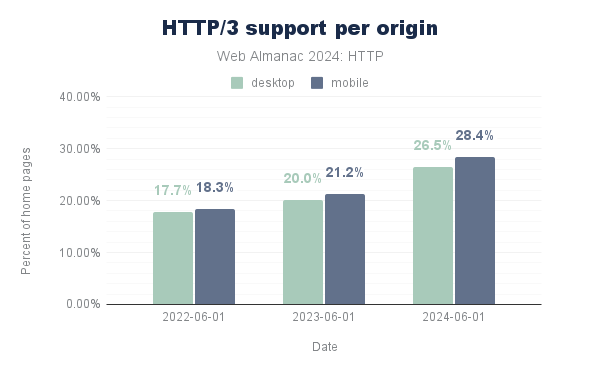
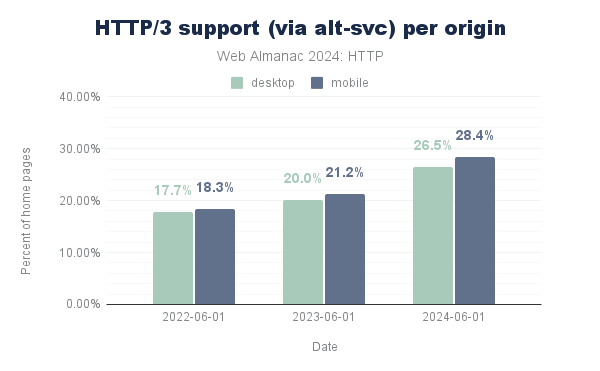
First part of the HTTP 2024 chapter with images

Changed region(s): [[0.15, 0.0296, 0.84, 0.1186]]

diff --git a/src/tools/test/test_status_codes.js b/src/tools/test/test_status_codes.js
@@ -4,7 +4,7 @@ const convert = require('xml-js');
 
 const { get_yearly_configs } = require('../generate/shared');
 
-const default_year = 2022;
+const default_year = 2024;
 const default_language = 'en';
 const base_url = "http://127.0.0.1:8080";
 

diff --git a/src/server/config.py b/src/server/config.py
@@ -8,7 +8,7 @@ TEMPLATES_DIR = ROOT_DIR + "/templates"
 STATIC_DIR = ROOT_DIR + "/static"
 
 SUPPORTED_YEARS = []
-DEFAULT_YEAR = "2022"
+DEFAULT_YEAR = "2024"
 
 DEFAULT_AVATAR_FOLDER_PATH = "/static/images/avatars/"
 AVATAR_SIZE = 200

diff --git a/src/content/en/2024/http.md b/src/content/en/2024/http.md
@@ -22,53 +22,268 @@ featured_stat_label_3: TODO
 
 HTTP remains the cornerstone of the Web ecosystem, providing the foundation for exchanging data and enabling various types of internet services. It is an actively developed protocol, with the latest version [HTTP/3](https://datatracker.ietf.org/doc/html/rfc9114) being standardized a little over two years ago, and new options to enable it being introduced recently, such as the new [DNS HTTPS records](https://developer.mozilla.org/en-US/docs/Glossary/HTTPS_RR). At the same time, the Web platform has been exposing more and more higher-level features that Web developers can use to influence when and how resources are requested and downloaded over HTTP. This includes options like [Resource Hints](https://web.dev/learn/performance/resource-hints) (for example preload and preconnect), [103 Early Hints](https://developer.mozilla.org/en-US/docs/Web/HTTP/Status/103) and the [FetchPriority API](https://web.dev/articles/fetch-priority). 
 
-In this chapter, we will first look at the current state of HTTP/3 adoption (triggered by either alt-svc or DNS HTTPS record usage), how it compares to HTTP/2 usage, and how both have evolved since 2022. We then consider TODO.
+In this chapter, we will first look at the current state of HTTP/1.1, HTTP/2 and HTTP/3 adoption, and how their usage has evolved over time. We then consider the new Web platform features, to get an idea of how well they're supported and how people are using them in practice. 
 
-## HTTP/3 adoption
+## HTTP version adoption
+
+Conceptually, getting an idea of how widespread the adoption of HTTP/2 and HTTP/3 is should be easy: just report how often each of the protocol versions was used to load the observed websites' home pages. This is exactly what we've done in the graph below:
+
+{{ figure_markup(
+  image="http-version-per-website.png",
+  caption="Adoption of HTTP versions as a percentage of website home pages.",
+  description="TODO",
+  chart_url="https://docs.google.com/spreadsheets/d/e/2PACX-1vQhHn7aWiJiMSVu3o872Lxr45NNZkG7jKa_MyL7aPwdga8gul19txh36PL2Ep4GRcaSYzpvLc-oc_xg/pubchart?oid=543150104&format=interactive",
+  sheets_gid="1647649629",
+  sql_file="h2_adoption_pages_reqs.sql"
+) }}
+
+While these results might look sensible at first glance, they are actually quite misleading. Indeed, as we'll see later, in reality HTTP/3 support across the Web is closer to 30% instead of the 7-9% reported above. This discrepancy is due to the fact that HTTP/3 has to be discovered before being used, while [the methodology used](https://almanac.httparchive.org/en/2024/methodology) for the Web almanac doesn't really lend itself well to the main discovery option ("alt-svc"). This causes a lot of HTTP/3-capable sites still being loaded over HTTP/2 and thus HTTP/3 is getting underreported. We will discuss this in more detail below, but for now we will group HTTP/2 and HTTP/3 together into a single label of "HTTP/2+" to at least compare them to HTTP/1.1.  
+
+As such, we see that only 21-22% of home pages is loaded over HTTP/1.1 in 2024, a marked difference from 2022 [where it was still  34%](https://almanac.httparchive.org/en/2022/http#http2-adoption) and especially 2020 where there was [basically a 50/50 split](https://almanac.httparchive.org/en/2020/http#http2-adoption) between H/1.1 and H2+. 
+
+Now, this is just looking at how the main document (the HTML) of the page is loaded. Another way of looking at HTTP adoption is by looking at the version used for **all** requests (including subresources and third-parties), which skews the results even more towards HTTP/2+:
+
+{{ figure_markup(
+  image="http2-per-request.png",
+  caption="Adoption of HTTP/2 and above as a percentage of requests.",
+  description="TODO",
+  chart_url="https://docs.google.com/spreadsheets/d/e/2PACX-1vQhHn7aWiJiMSVu3o872Lxr45NNZkG7jKa_MyL7aPwdga8gul19txh36PL2Ep4GRcaSYzpvLc-oc_xg/pubchart?oid=1786964395&format=interactive",
+  sheets_gid="530915869",
+  sql_file="h2_adoption_pages_reqs.sql"
+) }}
+
+This is because many websites will load additional resources from a variety of "third-party" domains (for example analytics, plugins/tags, social media integrations, etc.). Due to their scale, these external services often either provide support for HTTP/2+ themselves or make use of a so-called CDN (Content Delivery Network, for example Akamai, Cloudflare or Fastly) that does it for them. In fact, CDNs are used very heavily on the observed websites, with a whopping **54% of over 1.3 billion requests** in our dataset being served from a CDN! 
+
+{{ figure_markup(
+  caption="The percentage of over 1.3 billion requests in the Web almanac dataset that use a CDN.",
+  content="54%",
+  classes="big-number",
+  sheets_gid="530915869",
+  sql_file="h2_adoption_by_cdn_pct.sql"
+) }}
+
+These companies are typically at the forefront of implementing new standards and protocols. When they enable a new feature, it becomes available to all their customers, usually causing a fast increase in global adoption. As such, we can see that CDNs are still one of the main drivers of HTTP/2+ adoption, with **only 3.6% of all CDN requests happening over HTTP/1.1**. This is again in stark contrast to requests not served from a CDN node, of which **up to 28.6% still uses HTTP/1.1**. 
+
+{{ figure_markup(
+  image="http2-for-cdn.png",
+  caption="Almost all traffic from CDNs is delivered over HTTP/2+.",
+  description="TODO",
+  chart_url="https://docs.google.com/spreadsheets/d/e/2PACX-1vQhHn7aWiJiMSVu3o872Lxr45NNZkG7jKa_MyL7aPwdga8gul19txh36PL2Ep4GRcaSYzpvLc-oc_xg/pubchart?oid=1286609498&format=interactive",
+  sheets_gid="687276140"
+) }}
+
+ 
+Combined, these results show that while overall adoption of newer HTTP versions is higher than ever, there are still plenty of sites that are in danger of "being left behind". These are mostly the (likely smaller) projects that can't or won't engage a CDN, but also don't have the technical know-how (or motivation) to enable HTTP/2+ themselves at their origins. Conceptually, this makes sense, as the newer versions do have some costs associated with them, both in terms of complexity and, especially for HTTP/3, in terms of CPU usage. And while HTTP/1.1 of course still functions perfectly fine, there might be some performance/efficiency downsides, as only HTTP/2+ allows multiplexing of multiple resources onto one connection, as well as additional features like resource prioritization and header compression.
+
+Still, personally I feel it's good to have freedom of choice on the Web, not just in terms of content, but also the tech stacks that are used, and that includes the protocol :) Similarly, the current (over)reliance on CDNs (for performance and security) also has its own downsides, with some people [fearing a "centralization" of the Web](https://www.mnot.net/blog/2023/12/19/standards-and-centralization) around a few large companies. I don't think we're quite there yet, but [I have written previously](https://pulse.internetsociety.org/blog/the-challenges-ahead-for-http-3) about the worrying fact that it is increasingly only the CDNs/large companies that have the technical know-how to deploy the newer protocols at scale. I don't know the "right answer" here, but feel it's good to highlight both sides!
+
+However, let's move away from the philisophical back into the (deeply) technical now, and explore why exactly the Web almanac dataset is only seeing low percentages of HTTP/3 being used!
 
 
-When we last looked at this, h3 was quite new. Now however 2 years old. Let's see how that changed things!
+## Discovering HTTP/3 support
+
+Measuring HTTP/3 adoption can be challenging because most modern browsers and clients **will NOT try HTTP/3 the first time** they load a page from a domain they haven't seen before. The reasons why are complex and were explained in detail in [previous](https://almanac.httparchive.org/en/2020/http#deploying-and-discovering-http3) [almanacs](https://almanac.httparchive.org/en/2021/http#negotiating-http3). The short version is that it could take the browser a (very) long time to fall back to HTTP/2 (or HTTP/1.1) if HTTP/3 is not available for the target domain (for example the server doesn't support it yet, or the network is blocking the protocol).
+
+This is less of a problem for H/2 and H/1.1, as they both run over the TCP protocol. If the server doesn't support H/2, it can just continue with H/1.1 over the existing TCP connection the browser set up, getting an "instant fallback". H3 however is different, as it replaces TCP with [a new transport protocol called QUIC](https://www.smashingmagazine.com/2021/08/http3-core-concepts-part1/) which in turn runs over the UDP protocol. If the browser _only_ opens a QUIC+H/3 connection to a server that doesn't support it, that server wouldn't be able to fall back to H/2 or H/1.1, since that's only possible over TCP, not QUIC/UDP! It would have to wait for the HTTP/3 connection to timeout (which can take several seconds) and only then open a new TCP connection for H/2 or H/1.1, which **would be very noticeable for the end users**. 
+
+To prevent users suffering this potential delay, the browser will in practice only try H3 if it's 100% sure the server will support it. But how can it be 100% sure? Well, if **the server/deployment explicitly tells the browser it supports HTTP/3**, of course!
+
+There are two _main_ ways of doing this:
+
+1. The "alt-svc" HTTP response header: the HTTP server indicates H3 support when a resource is requested over HTTP/2 or HTTP/1.1
+2. The DNS HTTPS resource record: the DNS server indicates H3 support during name resolution, before connection establishment
+
+The first option is by far the most popular, but has the downside that it first needs a "bootstrapping" connection over H/2 or H/1.1 to discover H3 support. The second option removes this downside by putting the information directly in DNS, which resolves before the first HTTP connection is even made. It is however much newer and thus less supported at the moment of writing. 
+
+To get a good idea of "real" HTTP/3 support in the Web almanac dataset, we need to consider both separately, as they will give conflicting results. 
+
+### HTTP/3 via alt-svc
+
+As discussed above, if the browser hasn't connected to a domain before, it will only try H/2 or H/1.1 over TCP, as those are most likely to be supported. For each H/2 or H/1.1 response, the server can then send along a special "alt-svc" HTTP response header, indicating it is guaranteed to support H/3 as well (at least for a specified timeframe: the 'ma' (max-age) parameter). 
+
+{{ figure_markup(
+  image="alt-svc-example.jpg",
+  caption="`alt-svc` response header example.",
+  description="Screenshot showing the `alt-svc` HTTP response header supporting HTTP/3 on UDP port 443 with ALPN value `h3` and `max-age` of 26 hours for www.akamai.com",
+  width=716,
+  height=419
+  )
+}}
+
+**"alt-svc" stands for "Alternative Services"**: you're currently using the H/2 "service", and there's also an H/3 service available (usually at UDP port 443). From then on, when the browser needs a new connection to the server, it can (try to) establish it over HTTP/3 as well!
+
+Using this mechanism means that **HTTP/3 is typically only used from the second page load of a site onward**, as the first load will happen over H2 or H/1.1, even if the server supports H3! And that is the crux of the issue, as the Web almanac _only measures the first page load by design_! 
+
+In order to make results comparable and fair across websites, we want to load each page with a fresh browser profile and nothing in the HTTP/file/DNS/alt-svc/... caches. As such, the "alt-svc" mechanism is conceptually useless in our methodology, as we'd only use the initial H/2 connection and never get to H/3. This is why measuring HTTP/3 adoption directly by protocol used in our dataset (as we did in the first image above) is misleading, with H3 getting underreported. 
+
+<p class="note">
+  Note: at this point, you might wonder how we're even seeing HTTP/3 page loads **at all** since with just "alt-svc" we should be seeing 0% HTTP/3. This is of course (mainly) due to the use of the 2nd discovery method via DNS, which we'll discuss later. 
+</p>
+
+Let's now look purely at how HTTP/3 support is being announced via "alt-svc" to get an idea of how much support sites _claim_ to have, even if it doesn't actually show up in our dataset:
 
 {{ figure_markup(
   image="http3-support-per-origin.png",
-  caption="HTTP/3 support has increased steadily since 2022.",
+  caption="HTTP/3 support (via alt-svc) has increased steadily since 2022.",
   description="TODO",
   chart_url="https://docs.google.com/spreadsheets/d/e/2PACX-1vQhHn7aWiJiMSVu3o872Lxr45NNZkG7jKa_MyL7aPwdga8gul19txh36PL2Ep4GRcaSYzpvLc-oc_xg/pubchart?oid=458096579&format=interactive",
   sheets_gid="1569509568",
   sql_file="h3_usage_site.sql"
 ) }}
 
-    HTTP/3 support was 15% in 2022, rose steadily over 2023 to now end up +- 10% higher at 
+When we [last looked at HTTP/3 support](https://almanac.httparchive.org/en/2022/http#http3-support) in June 2022, the protocol wasn't even fully standardized yet! Still, due to early deployments from some large players, around 18% of sites in the HTTP Archive dataset indicated they had support for HTTP/3. Now, two years later, we can see that support for the new protocol has steadily risen, up to 26.5% (desktop) to 28.4% (mobile), a near 10% overall increase. If that still seems low, it's actually quite similar to HTTP/2's evolution, which equally saw [around 30% uptake in its second year](https://httparchive.org/reports/state-of-the-web#h2) after standardization (2017).
 
-Driven mostly by CDNs:
+It is somewhat interesting to see that mobile home pages advertise a little better support for HTTP/3 than their desktop counterparts. This can potentially be explained by the fact that HTTP/3 will mainly deliver benefits over mobile/cellular networks (and so site owners might want to mainly enable it for that) and because some corporate environments still tend to block HTTP/3 on their networks (making it less interesting to enable for desktop clients).
 
-    TODO image
+{{ figure_markup(
+  image="http3-support-by-cdn-use.png",
+  caption="HTTP/3 support is driven mainly by CDNs.",
+  description="TODO",
+  chart_url="https://docs.google.com/spreadsheets/d/e/2PACX-1vQhHn7aWiJiMSVu3o872Lxr45NNZkG7jKa_MyL7aPwdga8gul19txh36PL2Ep4GRcaSYzpvLc-oc_xg/pubchart?oid=340546380&format=interactive",
+  sheets_gid="880813564",
+  sql_file="h3_support_from_cdn.sql"
+) }}
 
-Which CDNs specifically: Cloudflare, Fastly, Cloudfront. Akamai doesn't enable by default.
+Similar to HTTP/2+ above, the support for HTTP/3 comes mainly from the CDNs, but in an (in my opinion) quite extreme form: around **85% of all HTTP/3 responses seen in our dataset came from a CDN** (compared to around 55% of all HTTP/2+ requests). This indicates that today very few website owners are self-deploying HTTP/3 at their origin and re-emphasizes my point from above that (fast) adoption of new technologies might (sadly) become a large-company-only thing. This is not entirely unexpected however; a lot of the popular "off the shelf" Web servers do not have (stable/mature/on-by-default) HTTP/3 support yet (including projects like NodeJS, Apache and nginx) and running a scalable HTTP/3 deployment that uses some of the protocol's advanced features (like connection migration and 0-RTT) is far from easy. Still, I hope to see more people self-hosting HTTP/3 in the (near) future.
+
+One important remark to make here is that not all CDNs show equally high HTTP/3 support: 
+
+<figure>
+  <table>
+    <thead>
+      <tr>
+        <th scope="colgroup" class="no-wrap">HTTP/3 alt-svc</th>
+        <th scope="colgroup">CDN</th>
+      </tr>
+    </thead>
+    <tbody>
+      <tr>
+        <td>&gt; 90%</td>
+        <td>Facebook, Automattic, jsDelivr</td>
+      </tr>
+      <tr>
+        <td>50% - 90%</td>
+        <td>Cloudflare, Cedexis</td>
+      </tr>
+      <tr>
+        <td>10% - 50%</td>
+        <td>Google, Amazon Cloudfront, Fastly, Microsoft Azure, BunnyCDN, Alibaba, CDN 77</td>
+      </tr>
+      <tr>
+        <td>1% - 10%</td>
+        <td>Akamai, Sucuri Firewall, Azion, KeyCDN</td>
+      </tr>
+      <tr>
+        <td>&lt; 1%</td>
+        <td>Twitter, Vercel, Netlify, OVH CDN, EdgeCast, G-Core CDN, Incapsula</td>
+      </tr>
+    </tbody>
+  </table>
+  <figcaption>{{ figure_link(caption="Percentage of HTTP/3 alt-svc responses for all requests served by first-party CDNs (with considerable traffic share).", sheets_gid="1667058296", sql_file="h3_support_each_cdn_breakdown.sql") }}</figcaption>
+</figure>
+
+Firstly, we see that some companies go all-in on HTTP/3, with for example Facebook indicating HTTP/3 support on 99.86% of responses! This is in stark contrast to other large companies like Twitter, that don't send "alt-svc" at all. Secondly, even CDNs that clearly support HTTP/3 rarely reach high percentages, with Cloudflare leading the pack at 78.16% and Akamai tagging along at just 6.90%. This most likely has to do with how exactly the CDNs enable the new protocol. For example, Cloudflare has enabled it by default for their free plans, leading to high (though not universal) use. In contrast, Akamai requires its customers to manually enable the feature in their configuration, which many seem slow/unwilling to do. As such, the amount of HTTP/3 support on the Web _could_ be much higher than around 28% if all CDN customers would allow it. Finally, it is somewhat surprising that some more specialized deployments, like automattic, heavily lean into HTTP/3 (99.92%) while others like Vercel and Netlify show near-zero HTTP/3 support. I can only speculate on the reasons for the latter, but assume it is mostly due to the complexity of setting up and maintaining the new protocol at scale, while these newer up-and-coming companies prefer to focus on other parts of their stacks first. 
+
+<p class="note">
+  Note: These results might not give a 100% accurate impression of what CDNs are actually doing, as firstly [the CDN detection logic](https://github.com/mantico91/wptagent/blob/master/internal/optimization_checks.py#L63) might be inaccurate/incomplete (for example, Shopify is not tracked separately yet), and secondly a lot of the tracked requests are for analytics/trackers, which might not be indicative of HTTP/3 support for normal page/resource loads. 
+</p>
+
+In conclusion, we see that currently around 27% of all websites in the Web almanac dataset announce HTTP/3 support through alt-svc. This number could potentially be (much) higher, if all websites that use a compatible CDN would enable it. At the same time however, the actual number of HTTP/3 requests we've seen in the dataset is much lower, between 7-9%. As we've explained this is due to the used methodology, and most of those 7-9% will come from another HTTP/3 discovery method using DNS records, so let's look at those next. 
 
 
-Compare HTTP/3 to HTTP/1.1 and HTTP/2... can't really do that
-    support above is not how much is actually used for the HTTPArchive runs... it's as measured by alt-svc. BUT only indicates potential, not actualy use (second load onward; httparchive only does 1st)
+### HTTP/3 via DNS
 
-    compare to cloudflare radar, w3c data (apnic as well?) to show that HTTP/3 adoption depends on the eye of the beholder
+As we've discussed, announcing HTTP/3 support via alt-svc HTTP response headers has some downsides, leading to the newer protocol only being used from the second connection to a server onwards. To get rid of this inefficiency, the browser would have to discover HTTP/3 support before it even opened the first connection to the server. Luckily, there is still one thing that happens before a connection can be setup, and that is DNS resolution. 
 
-    so can't really be sure if HTTP/3 can be used. HTTP/2+
+The Domain Name System (DNS) is often described as a large phone book, which allows you to translate a hostname (www.example.org) into one or more IP addresses (with A and AAAA queries returning IPv4 and IPv6 results respectively). However, in essence, the **DNS can also be thought of as just a very large, distributed "Key-Value store"** that can hold other things besides IP addresses (and associated metadata like CNAMEs) as well. Some examples include listing email details with MX records, and using TXT records to prove ownership of a domain (for example for [Let's Encrypt](https://letsencrypt.org/docs/challenge-types/#dns-01-challenge)). 
 
-### HTTP/3 announcement via DNS HTTPS records
+The past few years, work has been ongoing to also add other information to the DNS, in particular with the new concept of ["Service Binding" (SVCB) and HTTPS records](https://www.rfc-editor.org/rfc/rfc9460.html#name-goals). These new records provide the client with a lot more information about a service/origin than just its IP addresses: whether it's HTTPS capable, whether it can use the new [Encrypted Client Hello](https://support.mozilla.org/en-US/kb/understand-encrypted-client-hello) for extra privacy, or for our purposes, which protocols it supports and on which ports! This is intended to **make initial connection setup/service discovery a bit more efficient**, as currently this is often done through slower methods like a chain of redirects or the above "alt-svc", or requires out-of-band methods like [HSTS preload](https://developer.mozilla.org/en-US/docs/Web/HTTP/Headers/Strict-Transport-Security). They are also intended to help with complex load balancing setups (for example when combining multiple CDNs). 
 
-To work around the bootstrapping issue: DNS HTTPS records!
-
-Don't necessarily overlap with alt-svc: that has 28% on mobile vs 12-ish for DNS HTTPS
-
-    TODO: see if we can get an overview of how many sites do both, and how many only do 1 maybe?
+A full discussion on SVCB would take too much time here however, so we will **focus only on how we can announce HTTP/3 support through the new HTTPS record** (as there are [plenty of other](https://www.domaintools.com/resources/blog/the-use-cases-and-benefits-of-svcb-and-https-dns-record-types/) [blog posts](https://blog.cloudflare.com/speeding-up-https-and-http-3-negotiation-with-dns/) and [documents](https://www.isc.org/docs/2022-webinar-dns-scvb.pdf) with [more details](https://www.netmeister.org/blog/https-rrs.html) on the wider applications). Let's look at an example of the HTTPS record in the wild:
 
 
-Generally difficult to look at HTTP/3 directly though, since it has to be discovered by the browser first (not all servers + blocked by networks).
+{{ figure_markup(
+  image="dns-https-example.jpg",
+  caption="DNS HTTPS resource record example.",
+  description="Screenshot showing a DNS HTTPS record listing alpns h3 and h2, and providing both an ipv4hint and ipv6hint for blog.cloudflare.com",
+  width=1415,
+  height=62
+  )
+}}
 
-alt-svc only from 2nd page load on (and HTTP Archive only does 1st page load... ). This is why HTTPS RRs were introduced: get that down.
+As we can see, `blog.cloudflare.com` indicates support for both HTTP/3 and HTTP/2 (in order of preference!) via the `alpn="h3,h2"` part of the response. ALPN stands for ["Application Layer Protocol Negotiation"](https://developer.mozilla.org/en-US/docs/Glossary/ALPN) which was/is originally a TLS (Transport Layer Security protocol) extension to indicate which application protocols and versions a server supports, to for example allow the graceful fallback from HTTP/2 to HTTP/1.1 discussed above. The general approach (and name) is reused for the DNS HTTPS record as well. Additionally, the example shows the optional `ipv4hint` and `ipv6hint` entries, which allow steering of users to specific endpoints for specific services (for example if not every single machine in the deployment actually supports HTTP/3 yet, say in a multi-CDN setup). In conclusion, if a browser queries the DNS for the HTTPS records (which is typically done in parallel or even before A and AAAA queries), and **subsequently sees `h3` in the ALPN list, it is allowed/encouraged to also try HTTP/3** for its _first_ connection to the server, bypassing the "alt-svc" overhead. 
+
+Let's now take a look at how much we've seen the new DNS records being used in the wild in the Web almanac dataset. Looking at the general use, we see that **around 12%** of both mobile and desktop pages have an HTTPS record of some kind defined. Not all of those include the `h3` option in their `alpn` section however: that's slightly lower at 9.04% (desktop) and 10.29% (mobile):
+
+{{ figure_markup(
+  image="dns-https-alpn-h3.png",
+  caption="HTTP/3 support is regularly being announced through DNS HTTPS records",
+  description="TODO",
+  chart_url="https://docs.google.com/spreadsheets/d/e/2PACX-1vQhHn7aWiJiMSVu3o872Lxr45NNZkG7jKa_MyL7aPwdga8gul19txh36PL2Ep4GRcaSYzpvLc-oc_xg/pubchart?oid=340546380&format=interactive",
+  sheets_gid="653397334",
+  sql_file="dns_https_svcb_usage.sql"
+) }}
+
+This means that 9-10% of all considered pages (over 20 million) in our dataset indicate HTTP/3 support through DNS. However, **this does not automatically mean that HTTP/3 is also actually used by the browser**. As we showed in the first image of this chapter, only about 7.3% (desktop) to 9.2% (mobile) of pages were actually loaded over HTTP/3. This is definitely in the same order of magnitude as the DNS HTTPS adoption, but not quite the same. This can have many different reasons, including networks blocking the newer protocol, HTTP/3 somehow losing the "race" to the HTTP/2 connection, the DNS HTTPS record being misconfigured, the DNS response for the record being delayed, the HTTP/2 connection being reused due to ["connection coalescing"](https://blog.cloudflare.com/connection-coalescing-with-origin-frames-fewer-dns-queries-fewer-connections/), etc. Still, it shows that this newer/alternative method of indicating HTTP/3 support early in the page loading process has strong potential to improve upon the "alt-svc" approach (and not just for the Web almanac methodology ;)).
+
+It is also interesting to compare this to [similar research done by Jan Schaumann in October 2023](https://www.netmeister.org/blog/https-rrs.html#current-use), who found that for over 100 million tested domains, only about 4% provided HTTPS records, which increased to a whopping 25%+ for the top 1 million domains on the Tranco list. He [concluded](https://www.netmeister.org/blog/https-rrs.html#iphints) that DNS HTTPS record adoption is "effectively driven by Cloudflare setting the records by default on all of their domains". This would be in-line with our previous findings that it is the big CDNs that drive new feature adoption, so let's see what our data says:
+
+<figure>
+  <table>
+    <thead>
+      <tr>
+        <th scope="colgroup" class="no-wrap">DNS HTTPS records with h3</th>
+        <th scope="colgroup">CDN</th>
+      </tr>
+    </thead>
+    <tbody>
+      <tr>
+        <td>&gt; 60%</td>
+        <td>None yet :)</td>
+      </tr>
+      <tr>
+        <td>50% - 60%</td>
+        <td>Cloudflare</td>
+      </tr>
+      <tr>
+        <td>2% - 50%</td>
+        <td>BunnyCDN, Alibaba</td>
+      </tr>
+      <tr>
+        <td>&lt; 2%</td>
+        <td>Akamai, Amazon Cloudfront, Microsoft Azure, Fastly, Netlify, Google, Incapsula, Azion, Sucuri Firewall, Vercell</td>
+      </tr>
+      <tr>
+        <td>&lt; 0.05%</td>
+        <td>Automattic, OVH </td>
+      </tr>
+    </tbody>
+  </table>
+  <figcaption>{{ figure_link(caption="Percentage of DNS HTTPS responses with h3 support for all home pages served by first-party CDNs (with considerable traffic share)", sheets_gid="1008841718", sql_file="dns_https_svcb_usage_cdn.sql") }}</figcaption>
+</figure>
+
+We can indeed see that Cloudflare is clearly the leader of the pack here, setting the HTTPS DNS record for over 50% of its hosted sites! Most of the other large CDNs do seem to have _some_ support and are testing the feature, but they rarely get above 2%. An interesting outlier here is Automattic, which had near universal HTTP/3 support via alt-svc, but only 0.04% for DNS HTTPS records! Outside this, of the 8.5 million pages not loaded via a CDN, only 0.46% had a DNS HTTPS record configured for HTTP/3 support, again reinforcing our conclusion that (for better or worse) **CDNs are the ones driving adoption of cutting edge features at scale**. 
+
+It will be interesting to track the use of DNS HTTPS (and SVCB) records in the coming years of the Web almanac to both see how their adoption evolves, and how that will map to actual HTTP/3 use in the dataset. 
+
+### Happy eyeballs, connection coalescing and agressive switching
+
+_TODO: don't know if we want to go too deep into the details without actual results here. If Barry can get some results for how often chrome actually switches from H2 to H3 DURING a page load, we might want to keep this section in. Otherwise, it might bog the text down too much imo._
 
 
+In practice, the browser won't open just the H3 connection. After all, even if the server supports it, the network might still block the newer protocol and we'd still get a slow fallback! To get around this, the browser actually opens **both an H/2 and H/3 connection in parallel, racing them against each other!** Whichever connection is established first (with a small head start of about 200ms for H/3) will get used and the other abandoned. This process, amusingly called [happy eyeballs](https://en.wikipedia.org/wiki/Happy_Eyeballs) (for real!), makes sure we get the fastest possible performance, and also that we automatically fall back to H/2 if the network blocks H3. 
 
+Discuss connection coalescing also being a factor in seeing less HTTP/3 than otherwise possible (existing H2 connections are reused).
+
+Discuss browsers switching protocols DURING a page load and how that can skew performance measurements (you get hybrid H2/H3 loads), both synthetic and RUM.
+
+### Conclusion
+
+_TODO: depends on if we add the previous section or not_
+
+Generally: we see H3 adoption evolve steadily over time, at a similar pace to HTTP/2. Like H2 though, probably will be a long time before it has huge adoption across the board for reasons XYZ. CDNs are both good and not-so-good (probably). New things are complex to deploy yourself; we need more documentation (like this blog post ;))
+
+Difficult to measure perf benefits of H3 vs H2 in this dataset due to the methodology, and you should take care to do it correctly yourself as well!
 
 
 
